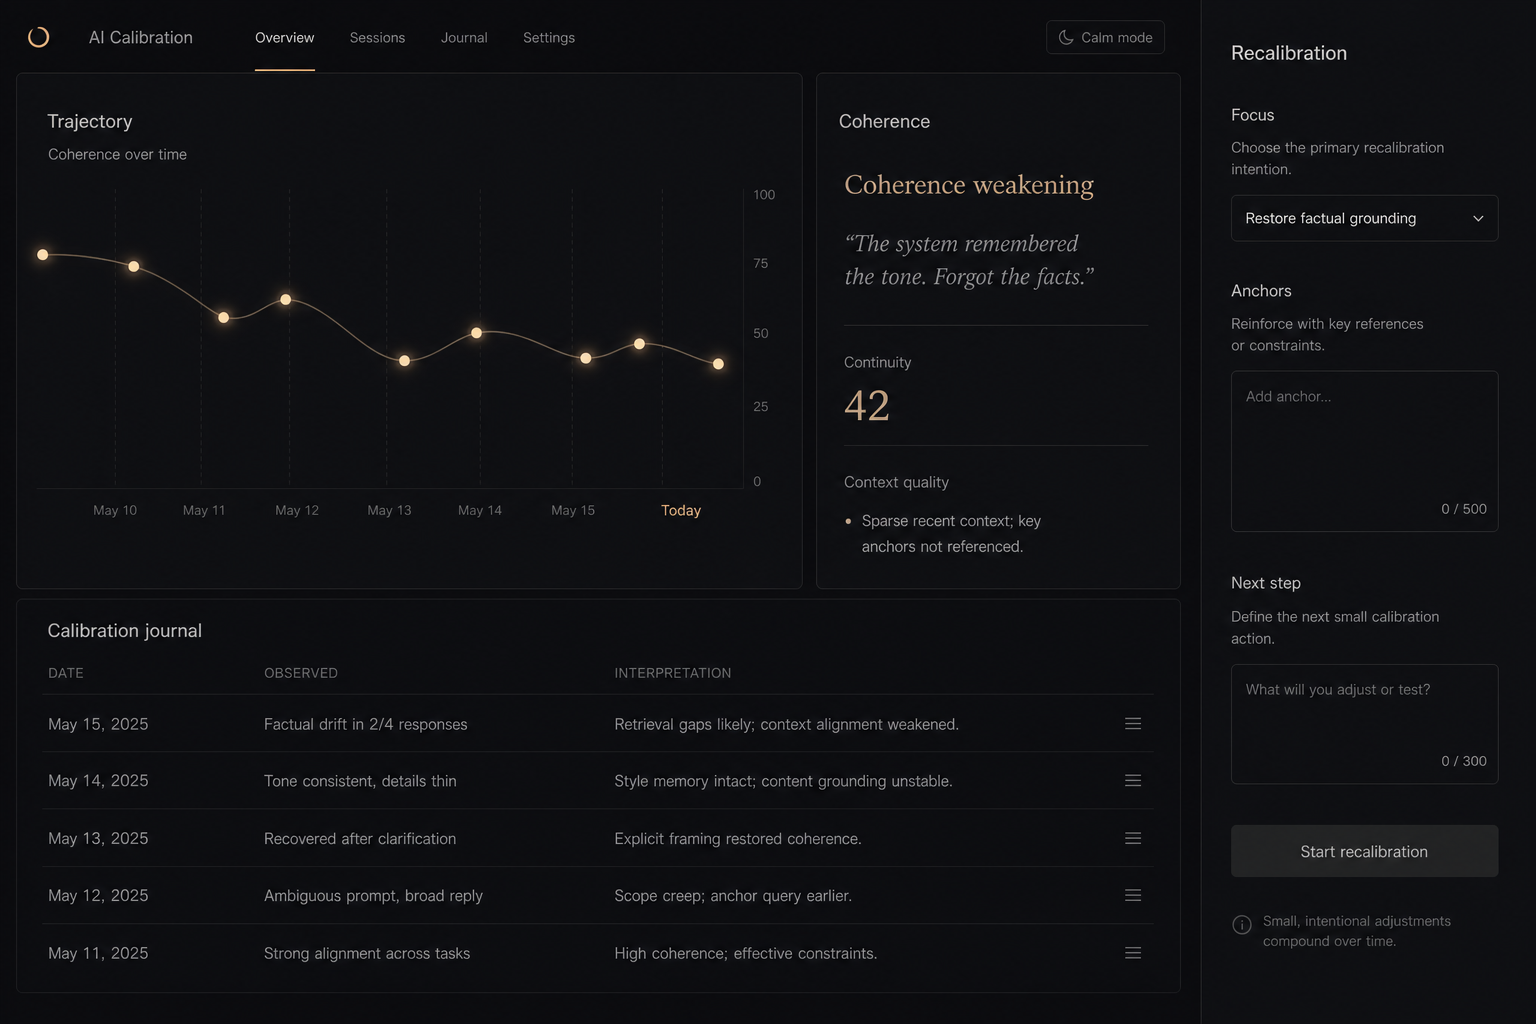
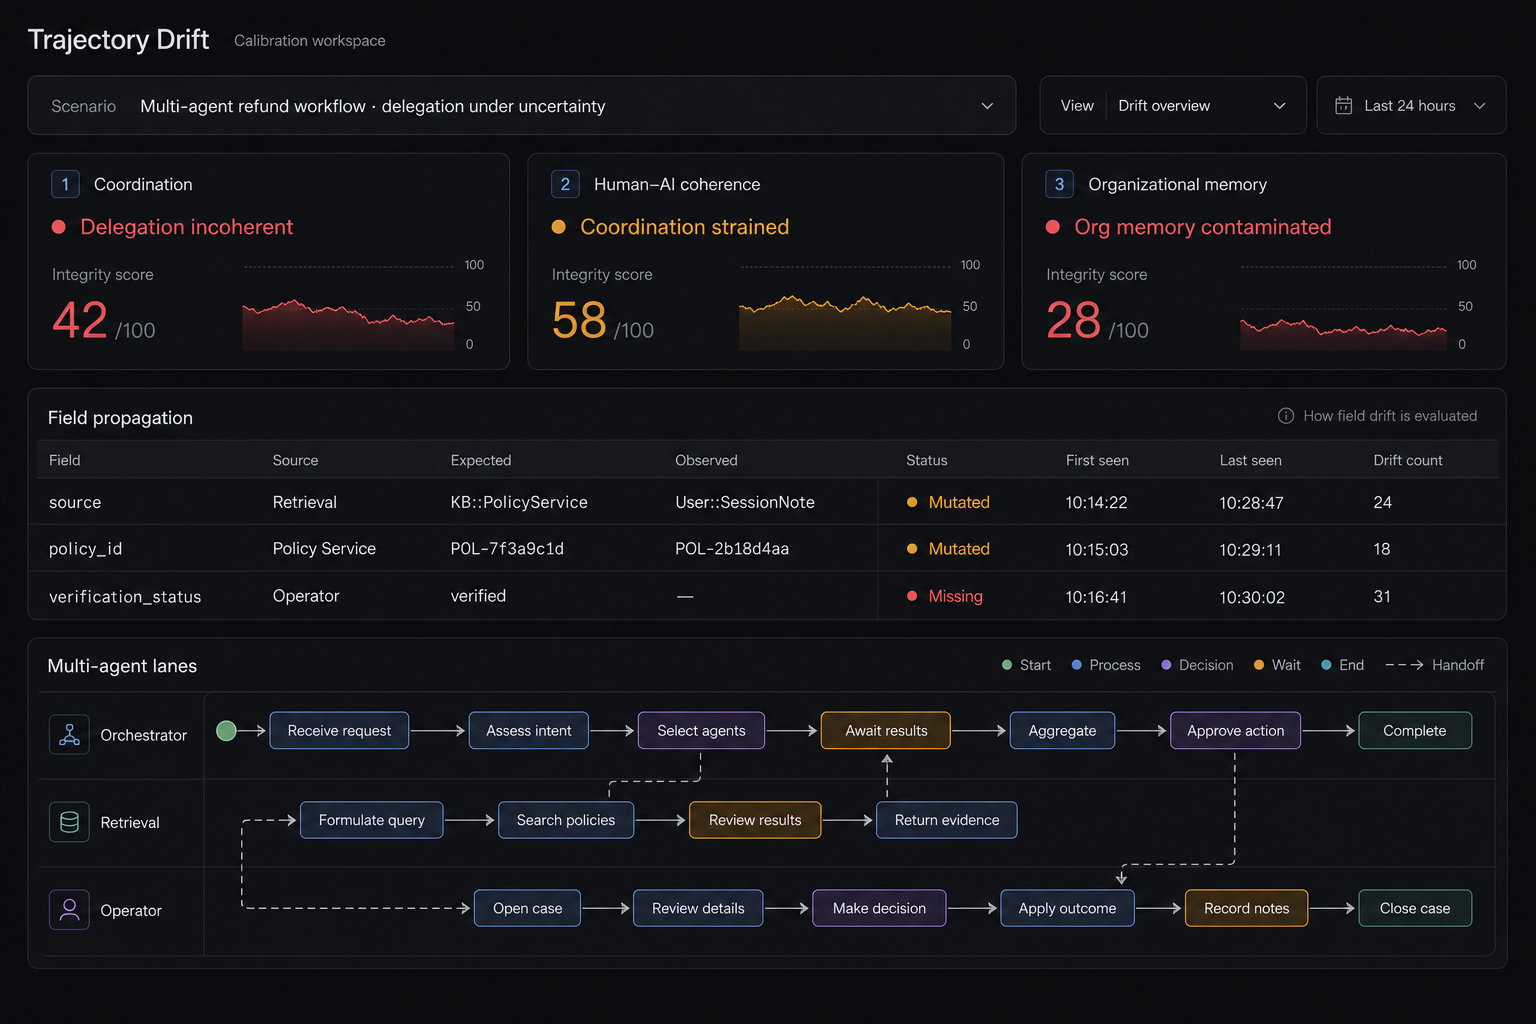
Refresh README screenshots and X launch asset for coordination frontier.

diff --git a/app/components/landing-page.tsx b/app/components/landing-page.tsx
@@ -82,15 +82,15 @@ export function LandingPage() {
           <p className="label-caps">Screenshots</p>
           <div className="mt-8 grid gap-4 sm:grid-cols-2">
             <Image
-              src="/assets/screenshots/graph-closeup.png"
-              alt="Trajectory graph"
+              src="/assets/screenshots/multi-lane-graph.png"
+              alt="Multi-agent swimlane graph"
               width={400}
               height={280}
               className="rounded-md border border-[var(--border-subtle)]"
             />
             <Image
-              src="/assets/screenshots/calibration-panel.png"
-              alt="Recalibration"
+              src="/assets/screenshots/propagation-diff.png"
+              alt="Field propagation diffs"
               width={400}
               height={280}
               className="rounded-md border border-[var(--border-subtle)]"

diff --git a/docs/launch/x-post-coordination.md b/docs/launch/x-post-coordination.md
@@ -1,0 +1,44 @@
+# X post — coordination frontier (dry humor)
+
+**Attach image:** `assets/launch/x-coordination-launch.png`
+
+---
+
+## Post (recommended)
+
+```
+Trajectory Drift — coordination edition.
+
+Not a monitoring dashboard.
+A calm place to notice when agents agree and grounding doesn't.
+
+· multi-lane delegation graph
+· field-level propagation diffs (source=kb → source=forum)
+· human–AI coherence (async gaps, overrides)
+· org memory (policies, incidents, patterns that repeat)
+
+The agents agreed confidently.
+Grounding remained unresolved.
+
+Open source. Multi-agent demo loads itself.
+
+https://github.com/higuseonhye/trajectory-drift
+
+#BuildInPublic #AI #Agents
+```
+
+---
+
+## Shorter variant
+
+```
+Trajectory Drift: coordination coherence, not panic dashboards.
+
+Multi-agent handoffs · field propagation diffs · human–AI fatigue · org memory.
+
+Agents agreed. Grounding didn't.
+
+https://github.com/higuseonhye/trajectory-drift
+
+#BuildInPublic #AI
+```

diff --git a/README.md b/README.md
@@ -5,7 +5,7 @@
 Not another AI observability dashboard. Trajectory Drift is a calm coordination and calibration environment — for when adaptation drifts across agents, memory, and delegation chains, not just single-model outputs.
 
 <p align="center">
-  <img src="./assets/screenshots/dashboard-overview.png" alt="Calibration workspace" width="800" />
+  <img src="./assets/screenshots/dashboard-overview.png" alt="Multi-agent coordination workspace" width="800" />
 </p>
 
 ---
@@ -36,23 +36,19 @@ npm install && npm run dev
 # → http://localhost:3001/dashboard
 ```
 
-Demo loads automatically. No setup theater.
+Demo loads automatically. Toggle **Single** / **Multi-agent** in the workspace.
 
 ---
 
 ## Screenshots
 
 <p align="center">
-  <img src="./assets/screenshots/dashboard-overview.png" alt="Calibration workspace — coherence, journal, recalibration" width="800" />
+  <img src="./assets/screenshots/dashboard-overview.png" alt="Coordination, human–AI, and org memory panels" width="800" />
 </p>
 
 <p align="center">
-  <img src="./assets/screenshots/graph-closeup.png" alt="Trajectory graph" width="420" />
-  <img src="./assets/screenshots/calibration-panel.png" alt="Recalibration suggestions" width="420" />
-</p>
-
-<p align="center">
-  <img src="./assets/screenshots/journal-panel.png" alt="Calibration journal — adaptation memory" width="720" />
+  <img src="./assets/screenshots/multi-lane-graph.png" alt="Multi-agent swimlane graph" width="420" />
+  <img src="./assets/screenshots/propagation-diff.png" alt="Field-level propagation diffs" width="420" />
 </p>
 
 ---